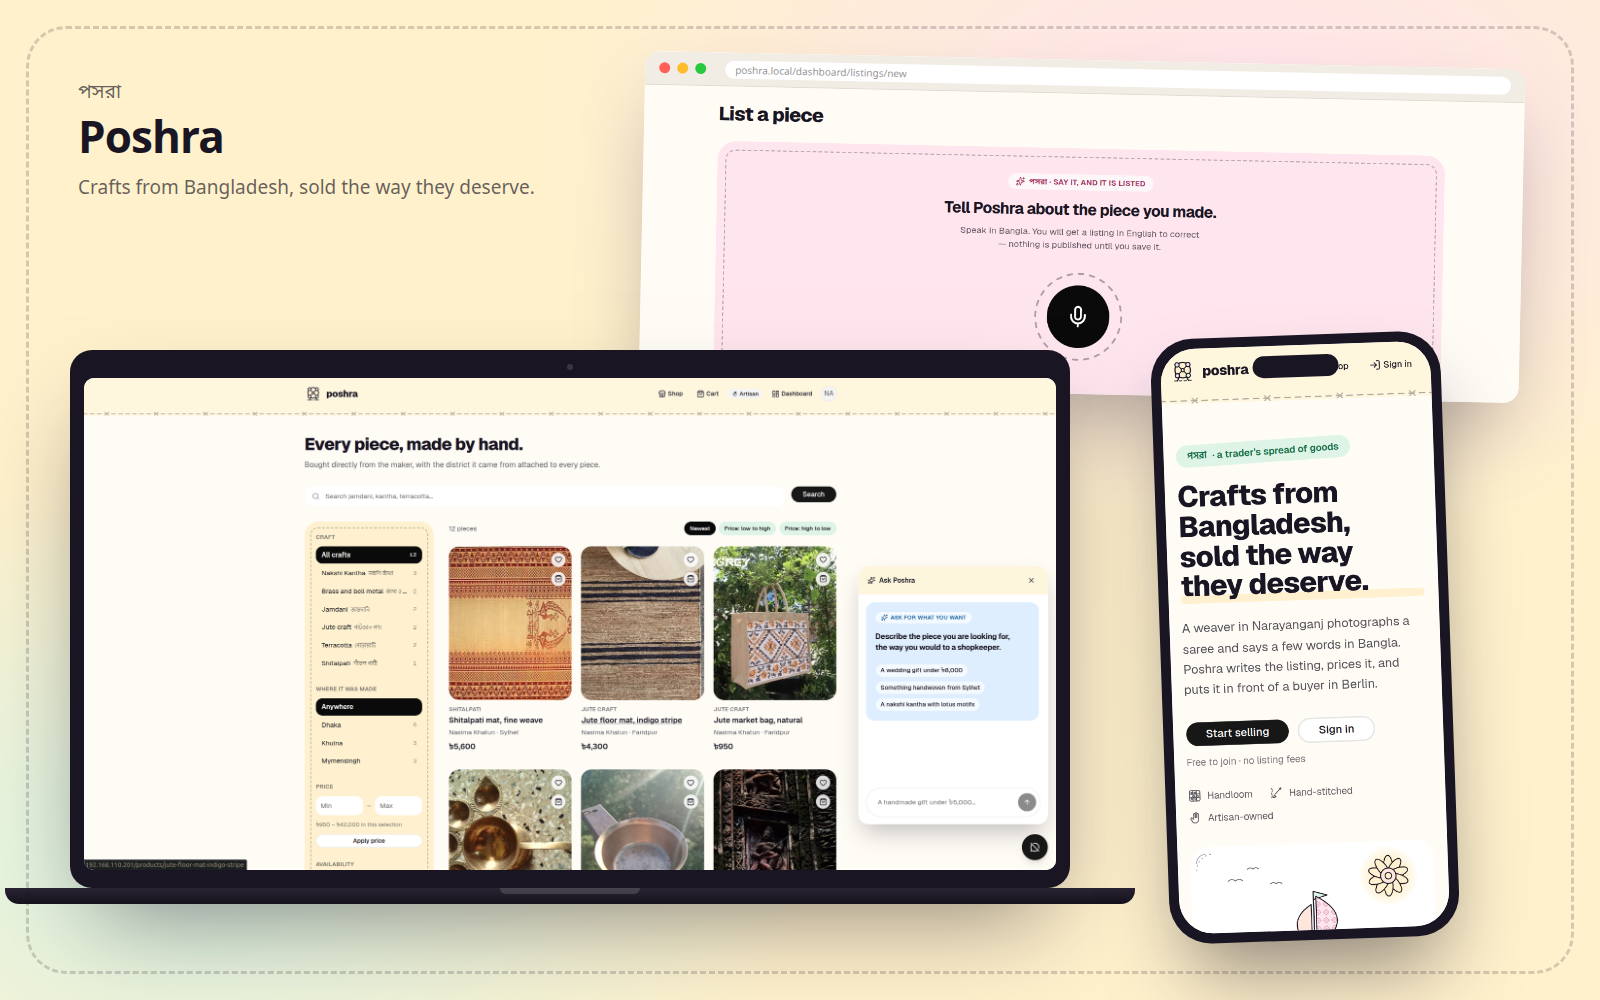
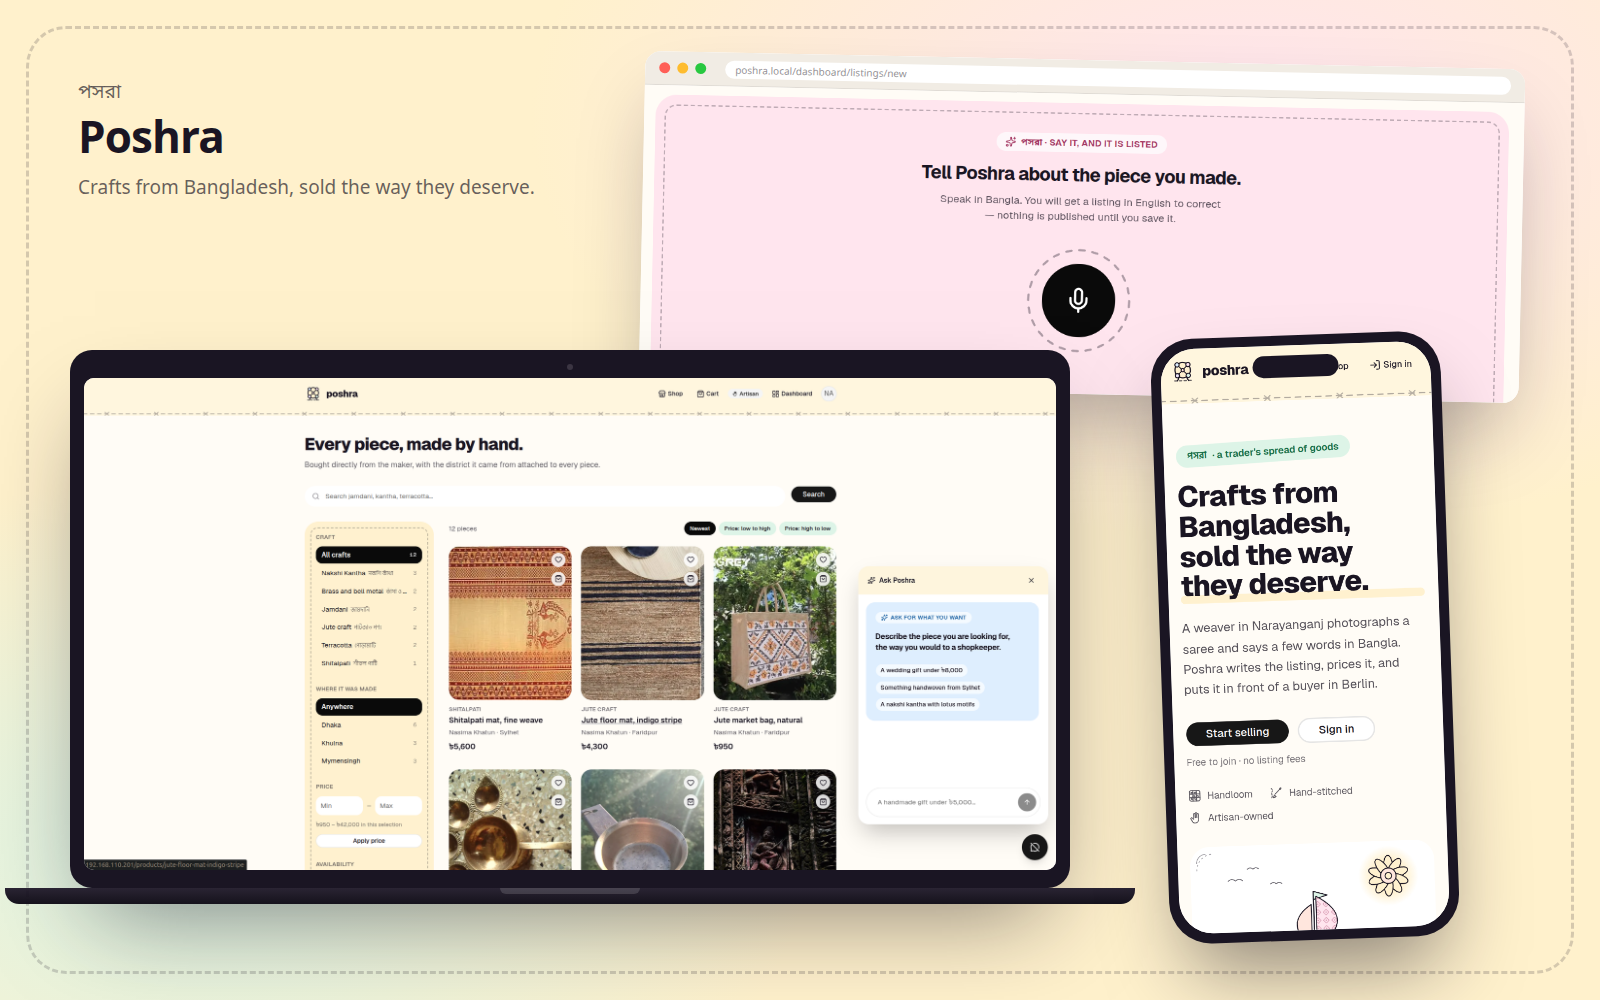
docs: show the panel in the hero, not the page around it
A screenshot of a wide page dropped into an 880px frame renders its own side
margins at full size and its text at none. In a README shown at 960px that
left the headline and the microphone as a smudge — the two things the page is
in the picture for.

The window now shows the region the panel occupies rather than the whole
viewport, which is 17% larger at the same frame width, and checked at the size
it will actually be seen rather than at the size it was rendered.

Changed region(s): [[0.5625, 0.124, 0.7812, 0.372], [0.4375, 0.093, 0.5312, 0.124]]

diff --git a/docs/assets/hero.html b/docs/assets/hero.html
@@ -74,18 +74,19 @@
         font-size: 10px;
         color: rgba(26, 21, 35, 0.5);
       }
-      /* Trims the site header off the capture so the panel — and the
-         microphone, which is the point of the picture — sits high in the
-         window instead of behind the laptop. The region from y=150 of a
-         1491x933 capture, shown at the window's width. */
+      /* The window shows the panel, not the page around it. A screenshot of
+         a wide page dropped into a 880px frame renders its own side margins
+         at full size and its text at none, which is how the interesting part
+         ends up illegible in a README shown at 960px.
+         The region x=110..1380, y=230.. of a 1491x933 capture. */
       .browser .shot { position: relative; overflow: hidden; height: 300px; }
       .browser .shot img {
         position: absolute;
         display: block;
-        width: 880px;
+        width: 1033px;
         max-width: none;
-        left: 0;
-        top: -89px;
+        left: -76px;
+        top: -159px;
       }
 
       /* ---------- laptop (main) ---------- */
